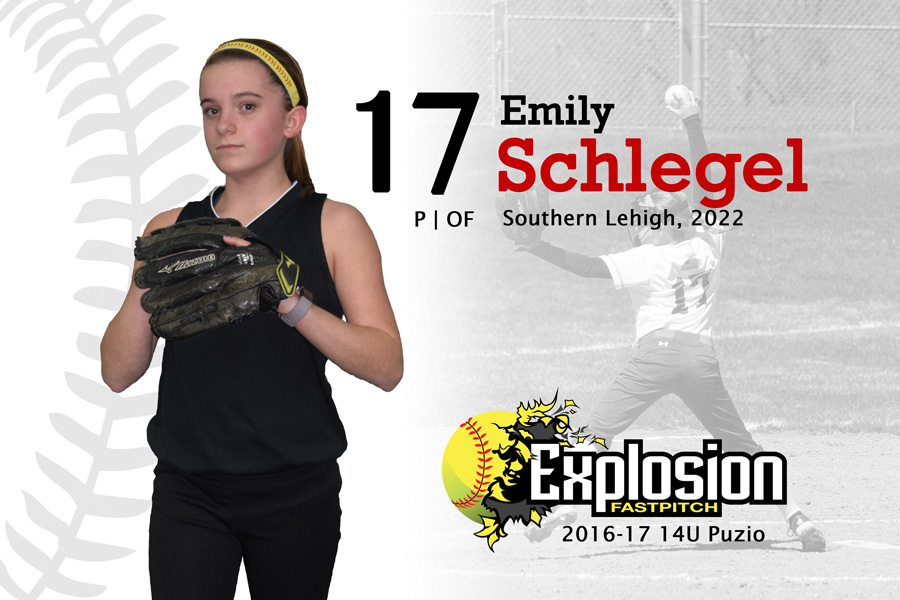
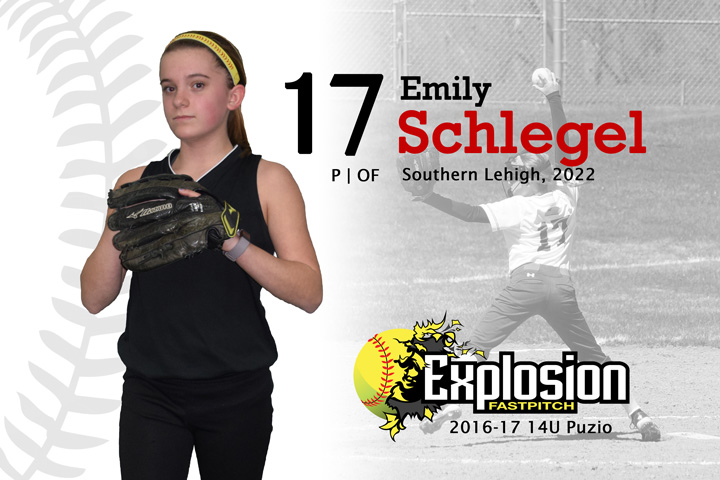
Added player images

diff --git a/public/assets/css/site.css b/public/assets/css/site.css
@@ -260,8 +260,11 @@ a.btn-highlight:focus {
 /**
  * Player
  */
+.player-section .header h2 {
+  font-size: 40px;
+}
 .player-section .player {
-  margin-top: 40px;
+  margin-bottom: 40px;
 }
 .player-section .player .image {
   padding: 20px;

diff --git a/public/assets/less/site.less b/public/assets/less/site.less
@@ -316,9 +316,15 @@ a.btn-highlight {
  */
 
 .player-section {
+	
+	.header {
+		h2 {
+			font-size: 40px;
+		}
+	}
 
 	.player {
-		margin-top: 40px;
+		margin-bottom: 40px;
 		
 		.image {
 			padding: 20px;
